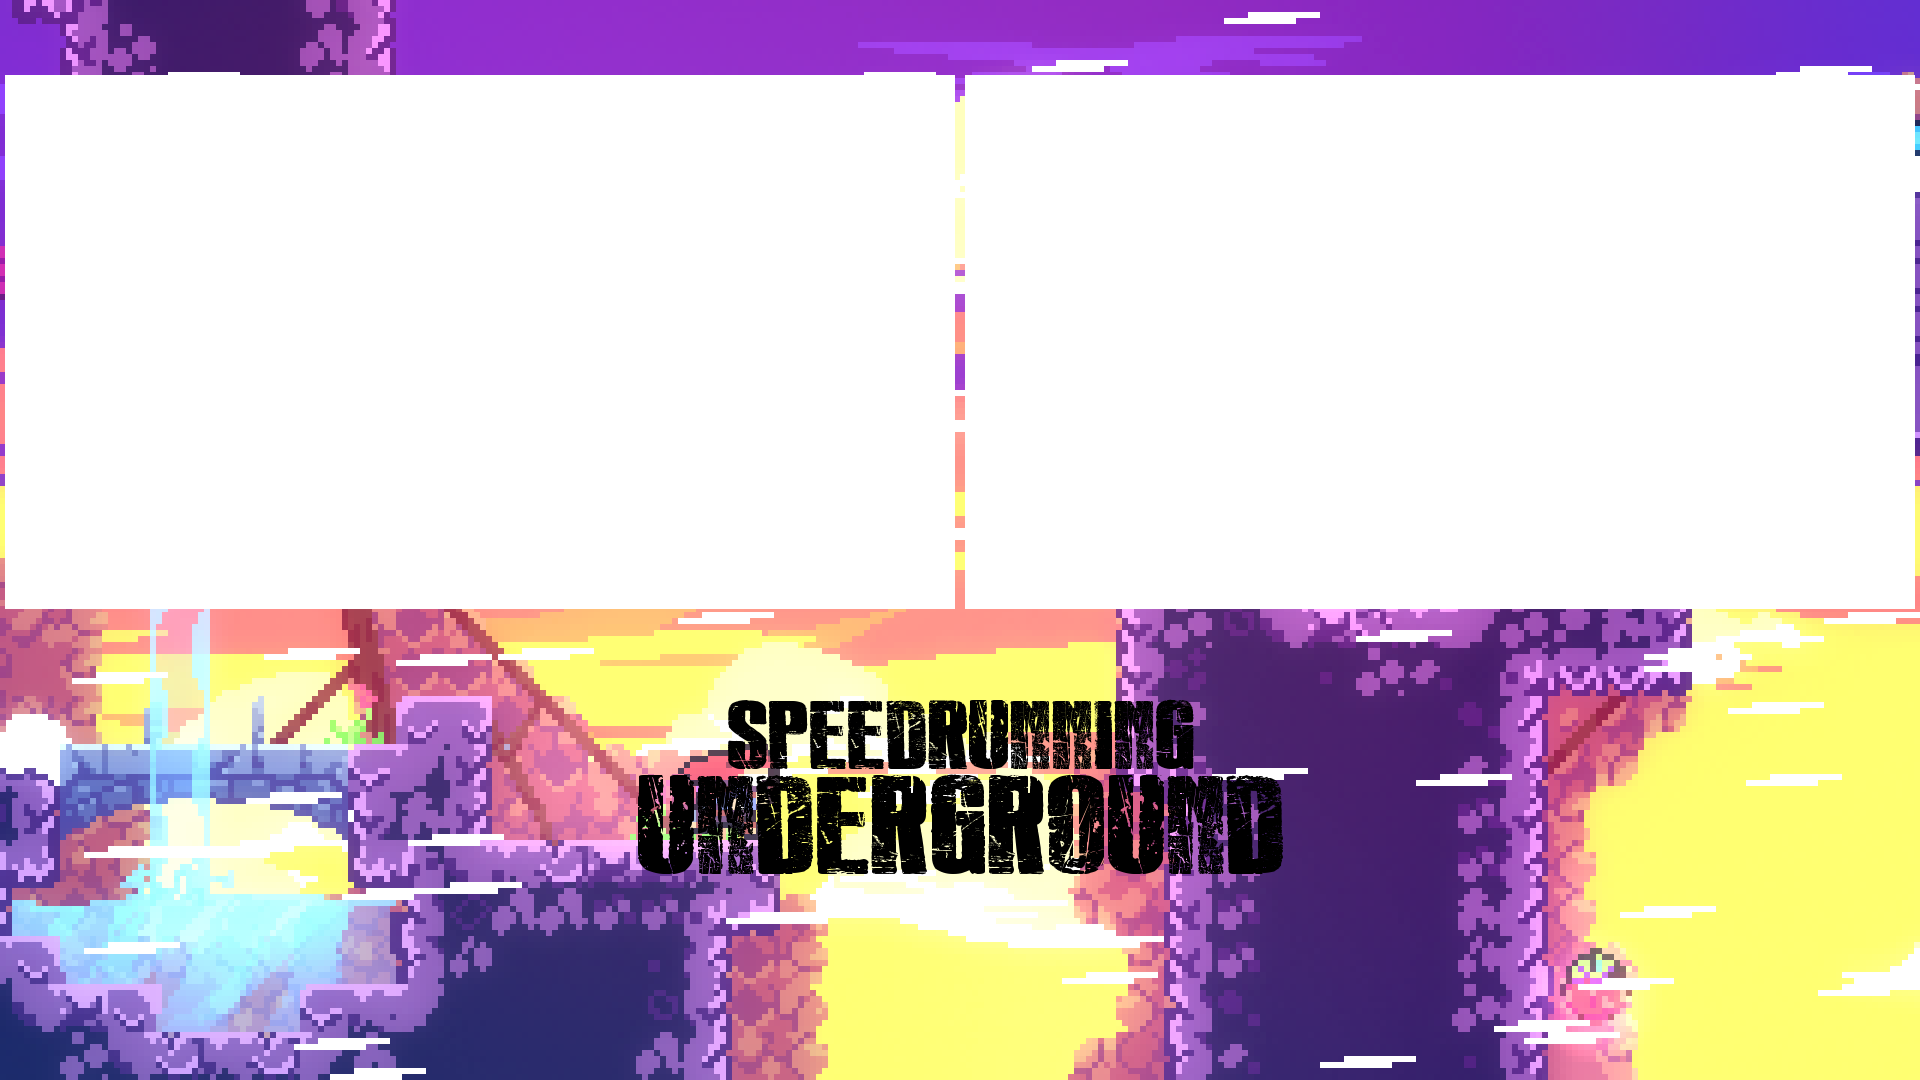
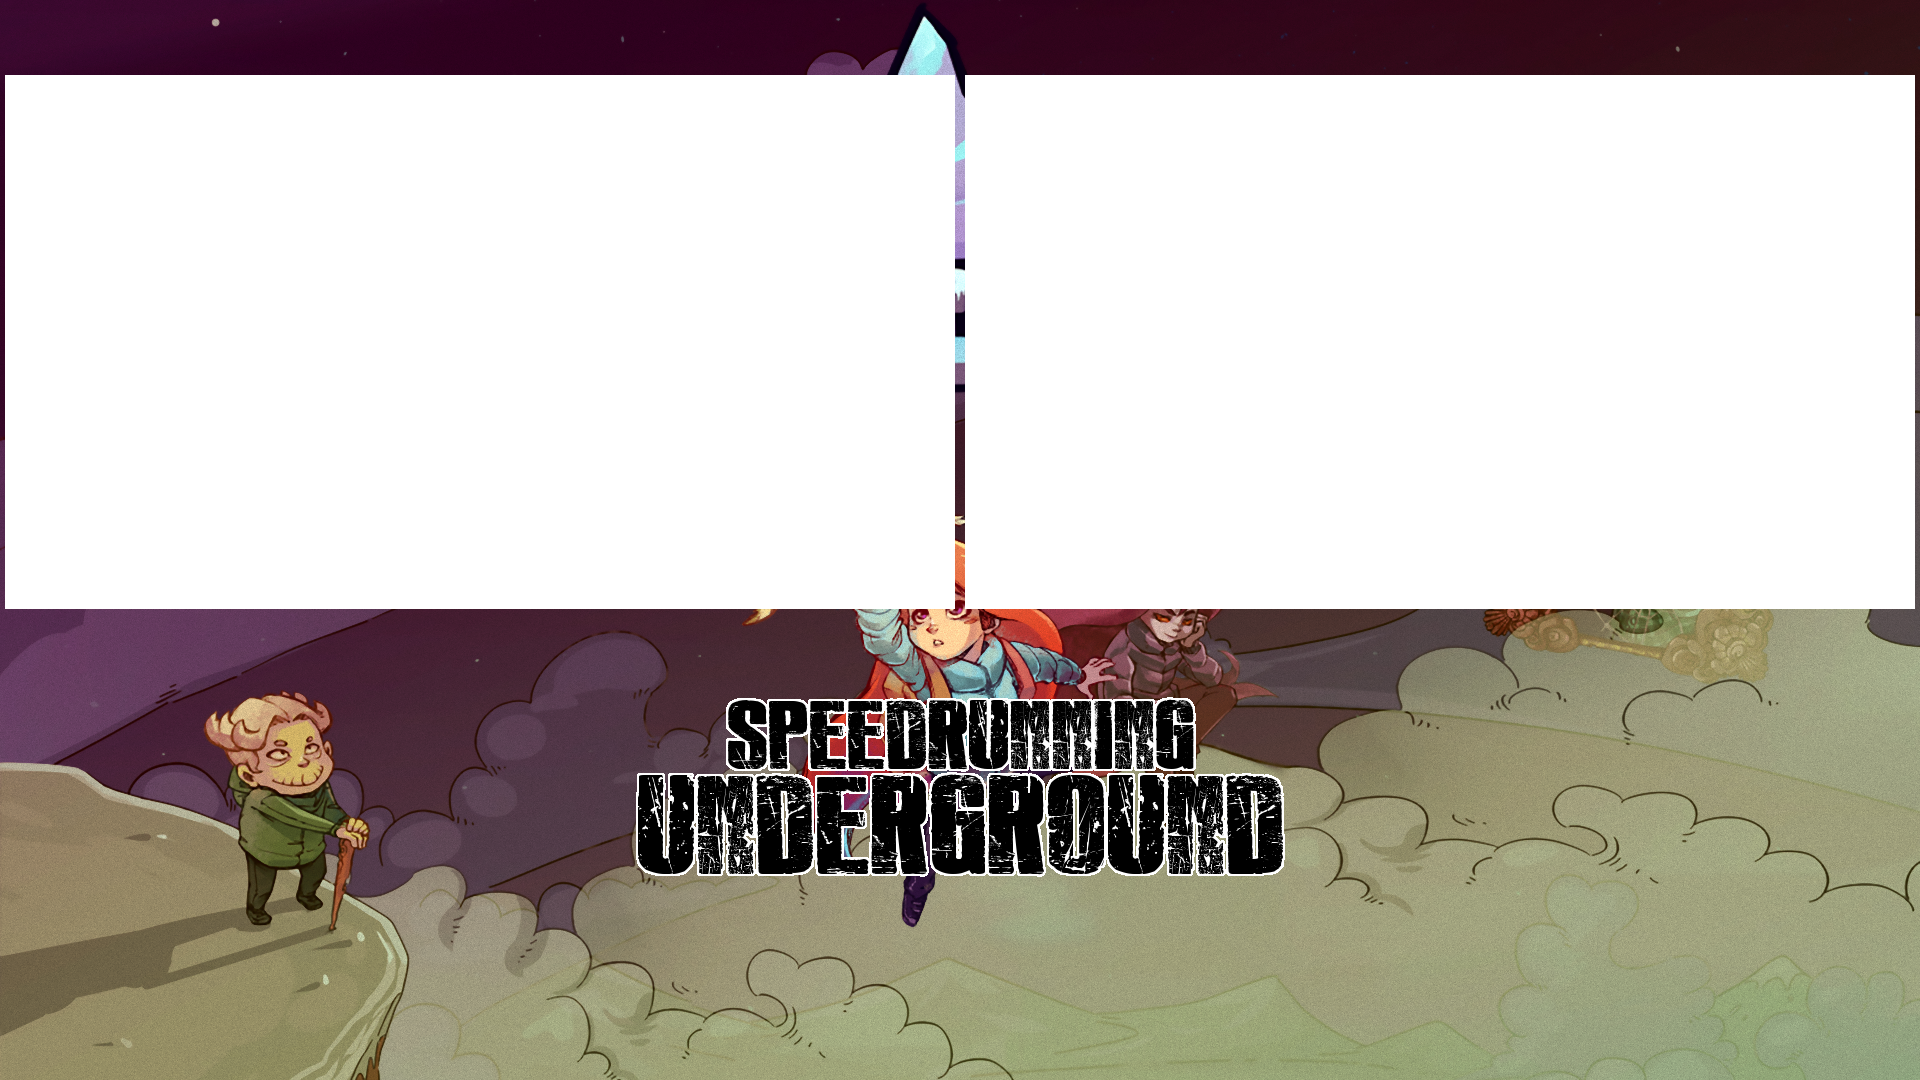
2019-05-12 update

diff --git a/src/app/controls/controls.component.ts b/src/app/controls/controls.component.ts
@@ -181,10 +181,16 @@ export class ControlsComponent implements OnInit {
 			case 'srt':
 				this._vm.groupName = 'Spyro Reignited Trilogy';
 				break;
+			case 'plge':
+				this._vm.groupName = 'Pokémon: Let\'s Go, Eevee!';
+				break;
+			case 'kh3':
+				this._vm.groupName = 'Kingdom Hearts 3';
+				break;
 		}
 
 		this._vm.background = background;
-		this._vm.matchType = this._vm.groupName + ' - Crash 2 100%';
+		this._vm.matchType = this._vm.groupName + ' - Any%';
 	}
 
 	updateInfo() {
@@ -823,6 +829,48 @@ export class ControlsComponent implements OnInit {
 		{
 			'name': 'BluntsMoses',
 			'preferredName': 'Blunts',
+			'startColumn': 'B4',
+			'endColumn': 'B4'
+		},
+		{
+			'name': 'Ouro',
+			'preferredName': 'Ouro',
+			'startColumn': 'B4',
+			'endColumn': 'B4'
+		},
+		{
+			'name': 'Keizaron',
+			'preferredName': 'Keizaron',
+			'startColumn': 'B4',
+			'endColumn': 'B4'
+		},
+		{
+			'name': 'kerbis54',
+			'preferredName': 'Kerbis',
+			'startColumn': 'B4',
+			'endColumn': 'B4'
+		},
+		{
+			'name': 'MooseSR',
+			'preferredName': 'Moose',
+			'startColumn': 'B4',
+			'endColumn': 'B4'
+		},
+		{
+			'name': 'Psyched_sr',
+			'preferredName': 'Psyched',
+			'startColumn': 'B4',
+			'endColumn': 'B4'
+		},
+		{
+			'name': 'Ninten866',
+			'preferredName': 'Ninten',
+			'startColumn': 'B4',
+			'endColumn': 'B4'
+		},
+		{
+			'name': 'SwiftShadow',
+			'preferredName': 'Swift',
 			'startColumn': 'B4',
 			'endColumn': 'B4'
 		}

diff --git a/src/app/controls/controls.html b/src/app/controls/controls.html
@@ -30,7 +30,7 @@
 				     src="../../assets/smo/smobgstream.png" style="max-height:50px;">
 				<br>
 				<b>Odyssey</b> <br>
-				<h6>Bayleef<br>Timpani</h6>
+				<h6>kerbis54<br>Timpani</h6>
 			</div>
 			<div>
 				<img [ngClass]="{ 'active-background': vm.background == 'ori' }" (click)="setBackground('ori')" src="../../assets/ori/oribgstream.png"
@@ -171,6 +171,20 @@
 				<br>
 				<b>Spyro Reignited Trilogy</b> <br>
 				<h6>ChrisLBC<br>BubblesDelFuego</h6>
+			</div>
+			<div>
+				<img [ngClass]="{ 'active-background': vm.background == 'plge' }" (click)="setBackground('plge')" src="../../assets/plge/plgebgstream.png"
+				     style="max-height:50px;">
+				<br>
+				<b>Pokémon: Let's Go, Eevee!</b> <br>
+				<h6>Ouro<br>Keizaron</h6>
+			</div>
+			<div>
+				<img [ngClass]="{ 'active-background': vm.background == 'kh3' }" (click)="setBackground('kh3')" src="../../assets/kh3/kh3bgstream.png"
+				     style="max-height:50px;">
+				<br>
+				<b>KH3</b><br>
+				<h6>Ninten866<br>SwiftShadow</h6>
 			</div>
 		</div>
 
